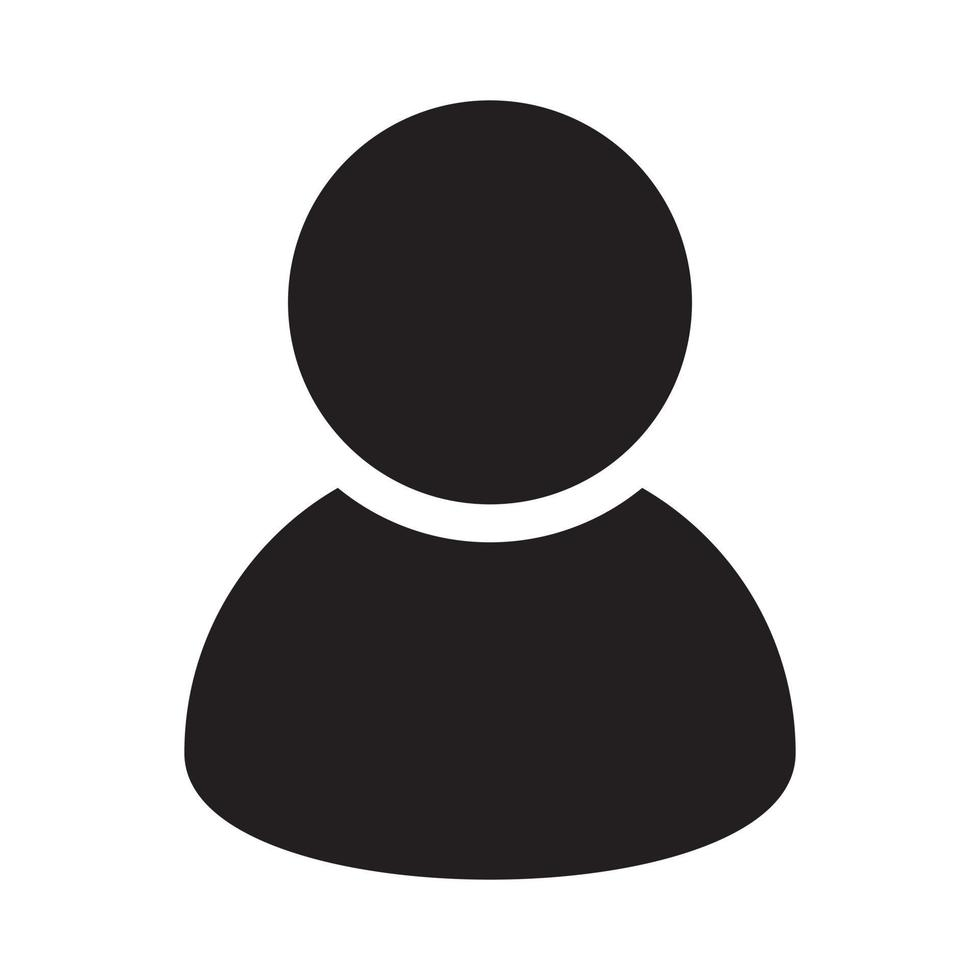
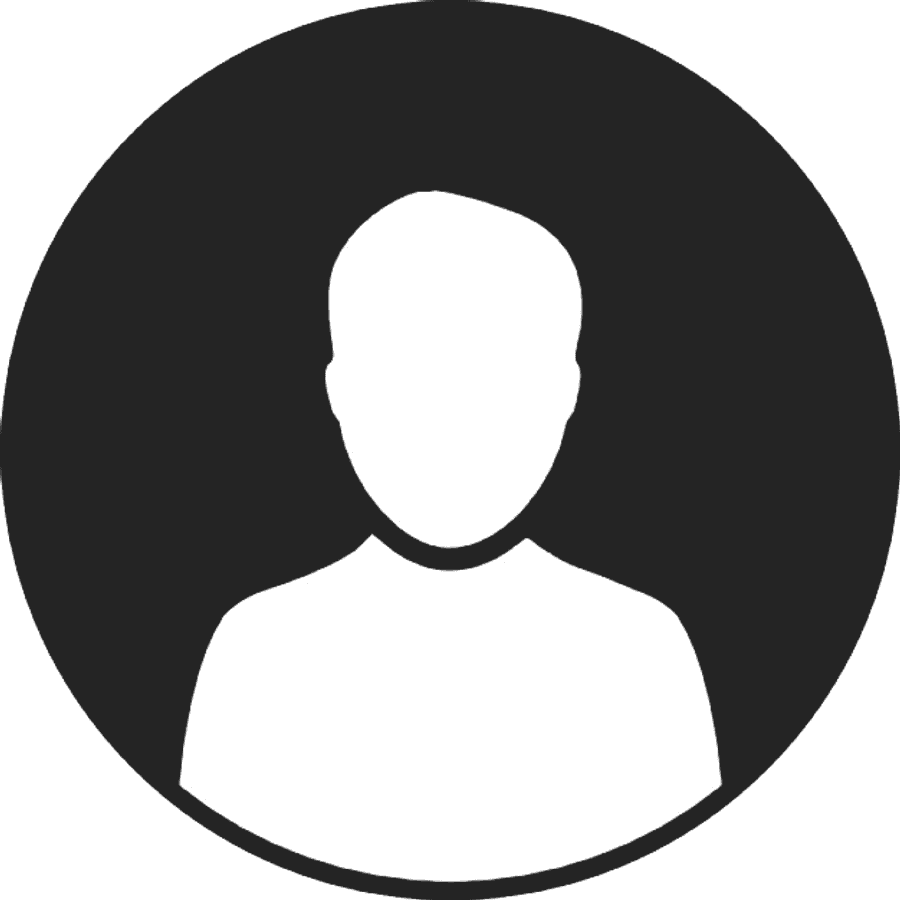
feat: apple rejection fixed

diff --git a/lib/view/home/widgets/home_app_bar.dart b/lib/view/home/widgets/home_app_bar.dart
@@ -1,6 +1,9 @@
 import 'package:flutter/material.dart';
 import 'package:flutter_screenutil/flutter_screenutil.dart';
+import 'package:geocoding/geocoding.dart';
+import 'package:geolocator/geolocator.dart';
 import 'package:get/get.dart';
+import 'package:track_trek/controller/home/user/home_user_controller.dart';
 import 'package:track_trek/controller/profile_controller.dart';
 import 'package:track_trek/core/components/custom_network_image.dart';
 import 'package:track_trek/core/constant/custom_space.dart';
@@ -11,13 +14,45 @@ import 'package:track_trek/core/init/api_client.dart';
 import 'package:track_trek/core/utils/text_style.dart';
 import 'package:track_trek/view/home/host/widget/loading_event_card.dart';
 
-class HomeAppBar extends StatelessWidget {
+class HomeAppBar extends StatefulWidget {
   final Function()? openDrawer;
   const HomeAppBar({
     super.key,
     this.openDrawer,
   });
 
+  @override
+  State<HomeAppBar> createState() => _HomeAppBarState();
+}
+
+class _HomeAppBarState extends State<HomeAppBar> {
+String devicePlace= "Unknown location";
+//
+//   void getAddressFromLatLng() async {
+//     try {
+//       List<Placemark> placemarks =
+//       await placemarkFromCoordinates(double.parse(HomeUserController.to.lat.value), double.parse(HomeUserController.to.lng.value));
+//
+//       if (placemarks.isEmpty) {
+//         devicePlace="Unknown location";
+//       } ;
+//
+//       final place = placemarks.first;
+//       print("&*^RRRRRRRRRRRRR${place.name}");
+//      setState(() {
+//        devicePlace= "${place.name}, ${place.street}, ${place.locality}, ${place.administrativeArea}, ${place.country}";
+//      });
+//     } catch (e) {
+//       debugPrint(e.toString());
+//       devicePlace= "Unknown location";
+//     }
+//   }
+// @override
+//   void initState() {
+//     getAddressFromLatLng();
+//     // TODO: implement initState
+//     super.initState();
+//   }
   @override
   Widget build(BuildContext context) {
     return Padding(
@@ -42,7 +77,7 @@ class HomeAppBar extends StatelessWidget {
                       height: 52.w,
                       width: 52.w,
                     )
-                        : ClipRRect(             
+                        : ClipRRect(
                       borderRadius: BorderRadius.circular(20),
                           child: Image.asset(
                                                 dummyProfileImgUrl,
@@ -55,7 +90,7 @@ class HomeAppBar extends StatelessWidget {
                         crossAxisAlignment: CrossAxisAlignment.start,
                         children: [
                           Text(
-                            ProfileController.to.userModel.value.name ?? 'n/a',
+                            ProfileController.to.userModel.value.name ?? 'Guest User',
                             style: poppinsMedium.copyWith(fontSize: getFontSizeLarge(context)),
                           ),
                           Row(
@@ -66,7 +101,7 @@ class HomeAppBar extends StatelessWidget {
                               ),
                               Flexible(
                                 child: Text(
-                                  ProfileController.to.userModel.value.address ?? 'n/a',
+                                  ProfileController.to.userModel.value.address ?? devicePlace,
                                   maxLines: 1,
                                   overflow: TextOverflow.ellipsis,
                                   style: poppinsMedium.copyWith(
@@ -83,7 +118,7 @@ class HomeAppBar extends StatelessWidget {
                 ),
               ),
               GestureDetector(
-                onTap: openDrawer ?? () {},
+                onTap: widget.openDrawer ?? () {},
                 child: Image.asset(
                   drawerIconUrl,
                   height: 50.w,

diff --git a/lib/view/book-track-join-event/book_track_join_event_page.dart b/lib/view/book-track-join-event/book_track_join_event_page.dart
@@ -3,6 +3,7 @@ import 'package:flutter_screenutil/flutter_screenutil.dart';
 import 'package:get/get.dart';
 import 'package:intl/intl.dart';
 import 'package:track_trek/controller/booking/book_track_join_event_controller.dart';
+import 'package:track_trek/controller/common_controller.dart';
 import 'package:track_trek/core/components/custom_appbar.dart';
 import 'package:track_trek/core/components/custom_network_image.dart';
 import 'package:track_trek/core/components/custom_refresh_indicator.dart';
@@ -16,6 +17,7 @@ import 'package:track_trek/core/utils/helper_function.dart';
 import 'package:track_trek/core/utils/text_style.dart';
 import 'package:track_trek/view/add/widgets/select_date_button.dart';
 import 'package:track_trek/view/add/widgets/track_event_slot_widget.dart';
+import 'package:track_trek/view/auth/login.dart';
 import 'package:track_trek/view/book-track-join-event/book_track_payment_page.dart';
 import 'package:track_trek/view/book-track-join-event/join_event_payment_page.dart';
 import 'package:track_trek/view/book-track-join-event/widgets/buttons_widget.dart';
@@ -329,7 +331,7 @@ print(controller.selectDate.value);
                                                 needToBook: type == event
                                                     ? true
                                                     : false,
-                                                onBook: () {
+                                                onBook:CommonController.to.isLoggedIn? () {
                                                   Get.toNamed(
                                                       JoinEventPaymentScreen
                                                           .routeName,
@@ -340,6 +342,8 @@ print(controller.selectDate.value);
                                                         'event': controller
                                                             .singleEvent.value
                                                       });
+                                                }:(){
+                                                  Get.toNamed(LoginScreen.routeName);
                                                 },
                                                 slots: /*argument != null &&*/
                                                         type == event
@@ -430,7 +434,7 @@ print(controller.selectDate.value);
                                                             .value
                                                             .slots![index],
                                                         argument: userPanel,
-                                                        onBook: () {
+                                                        onBook:CommonController.to.isLoggedIn?  () {
                                                           Get.toNamed(
                                                               BookTrackPaymentScreen
                                                                   .routeName,
@@ -440,6 +444,8 @@ print(controller.selectDate.value);
                                                                 index],
                                                                 /*'event':controller.singleEvent*/
                                                               });
+                                                        }:(){
+                                                          Get.toNamed(LoginScreen.routeName);
                                                         },
                                                         needToBook: true,
                                                       ),

diff --git a/lib/core/components/custom_drawer_widget.dart b/lib/core/components/custom_drawer_widget.dart
@@ -36,7 +36,7 @@ class CustomDrawerWidget extends StatelessWidget {
                   children: [
                     Image.asset(splashImgUrl),
                     Image.asset(horizontalDividerUrl),
-                    CommonController.to.selectedRoleOption.value == 0
+                    CommonController.to.selectedRoleOption.value == 0 && CommonController.to.isLoggedIn
                         ?  DrawerContentWidget(
                       icon: historyIconUrl,
                       text: AppStaticString.history,
@@ -63,7 +63,7 @@ class CustomDrawerWidget extends StatelessWidget {
                       icon: privacyPolicyIconUrl,
                       text: AppStaticString.privacyPolicy,
                     ),
-                    DrawerContentWidget(
+                 if (CommonController.to.isLoggedIn)DrawerContentWidget(
                       onTap: () {
                         Navigator.pop(context);
                         Get.toNamed(FeedbackScreen.routeName);
@@ -71,7 +71,7 @@ class CustomDrawerWidget extends StatelessWidget {
                       icon: feedBackIconUrl,
                       text: AppStaticString.feedback,
                     ),
-                    CommonController.to.selectedRoleOption.value == 0
+                    CommonController.to.selectedRoleOption.value == 0&& !CommonController.to.isLoggedIn
                         ? const SizedBox.shrink()
                         : DrawerContentWidget(
                             icon: profileIconUrl,
@@ -82,7 +82,7 @@ class CustomDrawerWidget extends StatelessWidget {
                             },
                           ),
 
-                    DrawerContentWidget(
+                  if( CommonController.to.isLoggedIn)  DrawerContentWidget(
                       onTap: () {
                         Navigator.pop(context);
                         Get.toNamed(SettingsScreen.routeName);
@@ -94,7 +94,7 @@ class CustomDrawerWidget extends StatelessWidget {
                 ),
               ),
             ),
-            BlackContainerWidget(
+            if( CommonController.to.isLoggedIn) BlackContainerWidget(
               onTap: () {
               logOutCall();
               },

diff --git a/lib/controller/splash_controller.dart b/lib/controller/splash_controller.dart
@@ -31,20 +31,20 @@ class SplashController extends GetxController {
 
     log(Boxes.getUserData().values.toString());
     _initializeApp();
-    // // Initialize AppLinks for deep link handling
-    // _appLinks = AppLinks();
-    //
-    // _appLinks.getInitialLink().then((Uri? uri) {
-    //   if (uri != null) {
-    //     _handleDeepLink(uri);
-    //   }
-    // });
-    //
-    // _appLinks.uriLinkStream.listen((Uri? uri) {
-    //   if (uri != null) {
-    //     _handleDeepLink(uri);
-    //   }
-    // });
+    // Initialize AppLinks for deep link handling
+    _appLinks = AppLinks();
+
+    _appLinks.getInitialLink().then((Uri? uri) {
+      if (uri != null) {
+        _handleDeepLink(uri);
+      }
+    });
+
+    _appLinks.uriLinkStream.listen((Uri? uri) {
+      if (uri != null) {
+        _handleDeepLink(uri);
+      }
+    });
 
     // Initialize app state and handle navigation
 

diff --git a/lib/core/service/track-event/track_event_service.dart b/lib/core/service/track-event/track_event_service.dart
@@ -476,7 +476,7 @@ class TrackEventService {
       final headers = {
         'Accept': 'application/json',
         'Content-Type': 'application/json',
-        'Authorization': 'Bearer ${Boxes.getUserData().get(tokenKey)}',
+        if(Boxes.getUserData().get(tokenKey)!=null) 'Authorization': 'Bearer ${Boxes.getUserData().get(tokenKey)}',
       };
 
       final response = await http.get(
@@ -701,7 +701,7 @@ class TrackEventService {
       final headers = {
         'Accept': 'application/json',
         'Content-Type': 'application/json',
-        'Authorization': 'Bearer ${Boxes.getUserData().get(tokenKey)}',
+       if(Boxes.getUserData().get(tokenKey)!=null) 'Authorization': 'Bearer ${Boxes.getUserData().get(tokenKey)}',
       };
 
       final response = await http.get(
